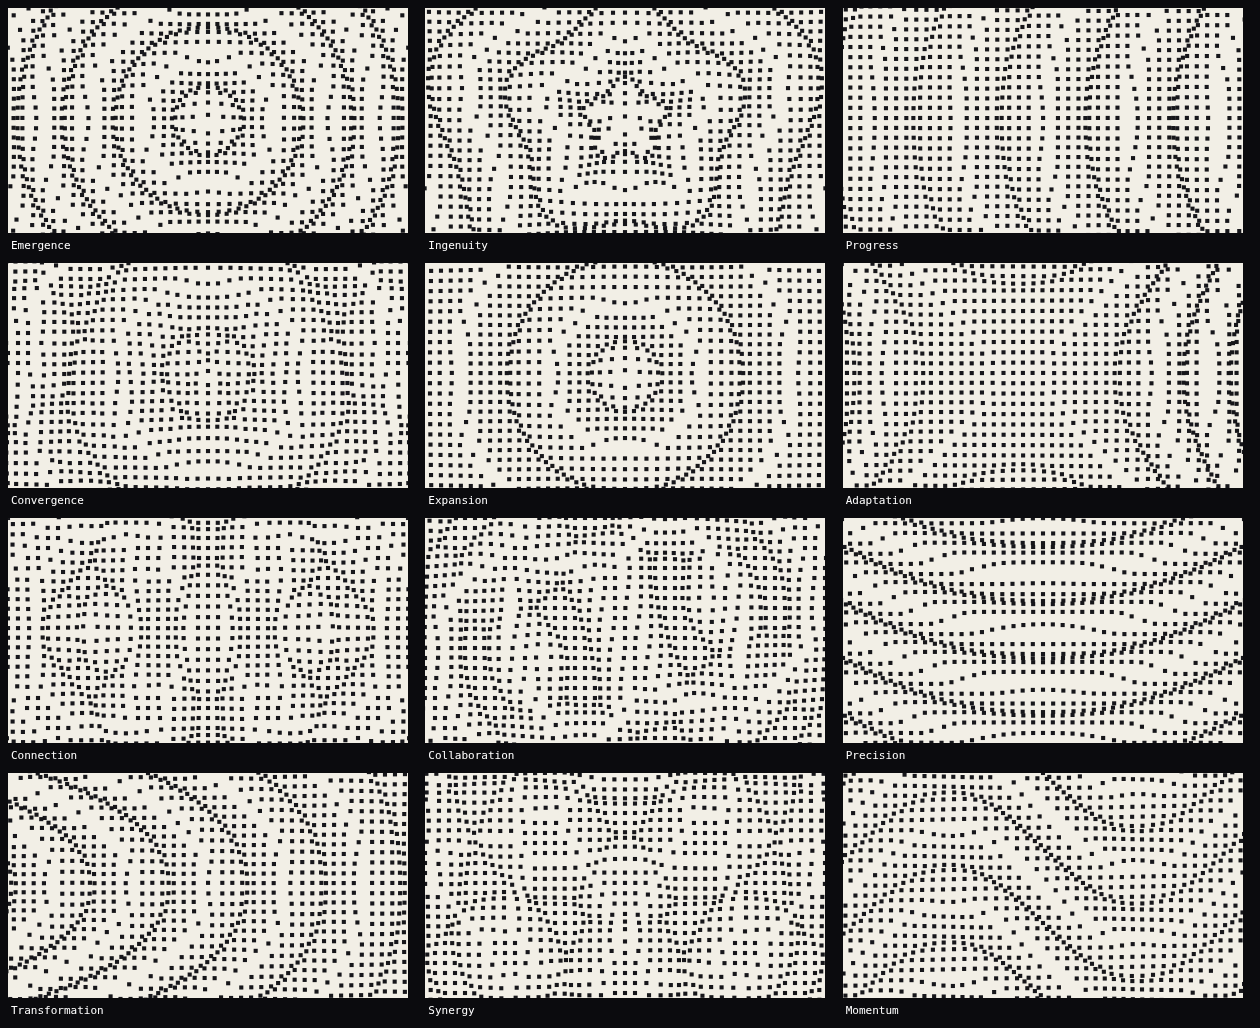
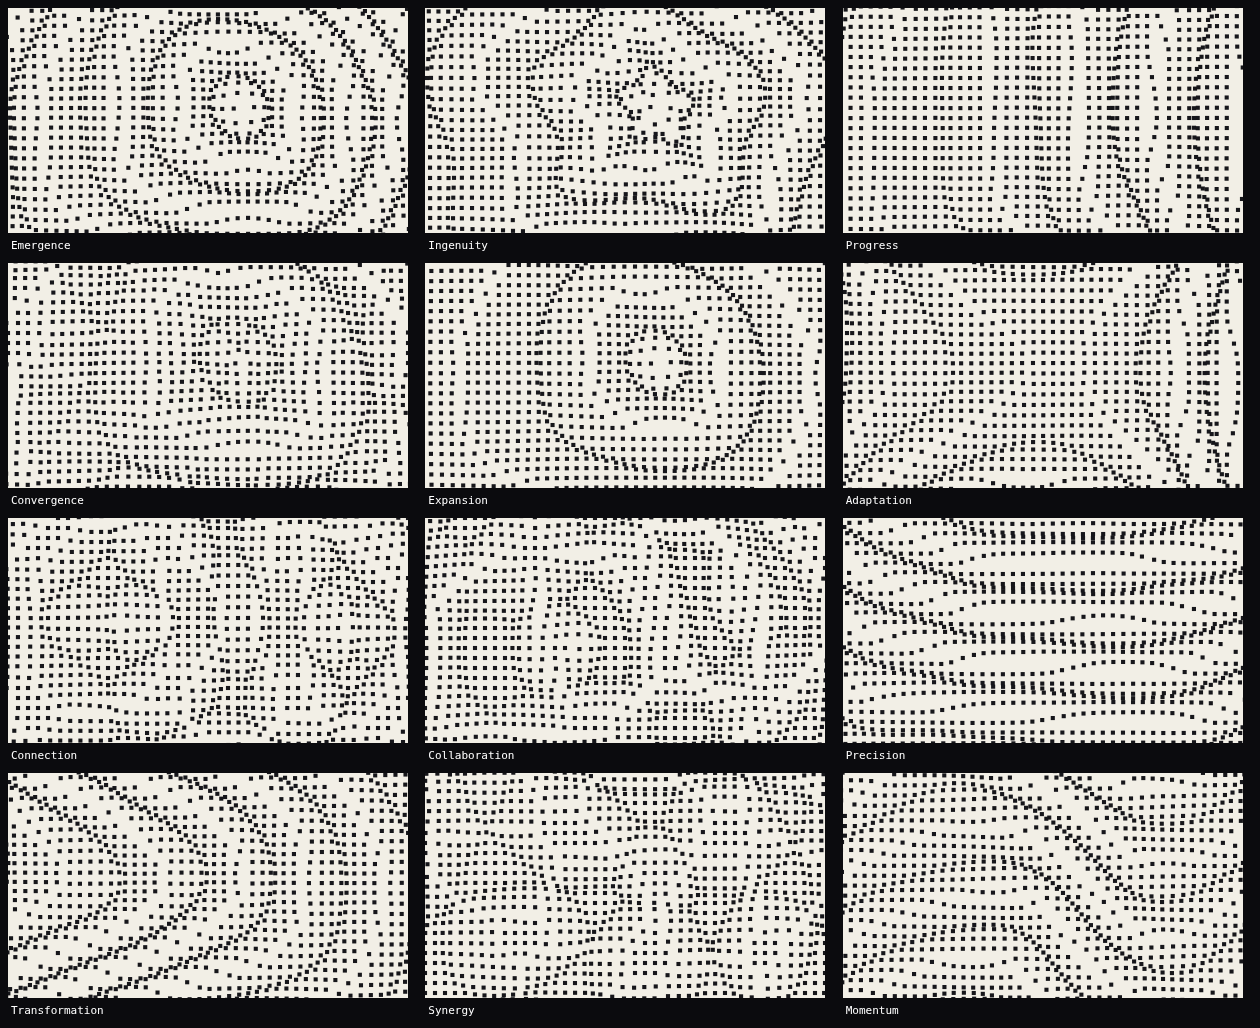
Bend the waves out of their symmetry
Every preset was exactly mirror-symmetric, which read as mechanical. Adds an
Organic control: before the wave is read, the reading point is pushed around by
smooth two-octave value noise — a domain warp — at a low frequency, so rings go
lopsided and bands meander while the wave keeps its character.

The warp sits in the shared height lookup, so both depth modes get it and, in
spacing mode, the marks gather along the bent crests rather than the ideal ones.
It is seeded: Shuffle draws a different bend, the same seed always redraws the
same one, and at 0 the presets are exactly symmetric again.

Shuffle moves next to Organic, since the seed now drives the bend rather than
only the scatter dropout.

Verified: mirrored pairs across the centre line differ by 3.3px of radius on
average at the default and 0.000px at organic 0, shuffling changes the rendered
texture, and generation stays under 20ms at 2000px.

Changed region(s): [[0.0, 0.0, 0.9905, 0.9961]]

diff --git a/js/generate.js b/js/generate.js
@@ -35,6 +35,7 @@ var DG = window.DG || (window.DG = {});
     shape: 'circle',      // circle | square
     grid: 56,             // dots across the width
     spacingRange: 0.55,   // spacing mode: how hard the wave gathers the marks
+    organic: 0.4,         // bends the waves out of perfect symmetry
     dotScale: 0.82,       // largest dot, as a fraction of the gap between dots
     sizeVariation: 0.9,   // difference between the smallest and largest dot
     contrast: 1,          // gamma on the field before it becomes size
@@ -50,6 +51,27 @@ var DG = window.DG || (window.DG = {});
     imageBlend: 'replace', // replace | multiply
     imageInvert: false
   };
+
+  /* Smooth 2D value noise, for bending the waves out of perfect symmetry. */
+  function noise2(x, y, seed) {
+    var x0 = Math.floor(x);
+    var y0 = Math.floor(y);
+    var fx = x - x0;
+    var fy = y - y0;
+    var sx = fx * fx * (3 - 2 * fx);
+    var sy = fy * fy * (3 - 2 * fy);
+    var a = hash2(x0, y0, seed);
+    var b = hash2(x0 + 1, y0, seed);
+    var c = hash2(x0, y0 + 1, seed);
+    var d = hash2(x0 + 1, y0 + 1, seed);
+    var top = a + (b - a) * sx;
+    return top + (c + (d - c) * sx - top) * sy;
+  }
+
+  /* Two octaves, centred on zero. */
+  function fbm(x, y, seed) {
+    return (noise2(x, y, seed) - 0.5) + (noise2(x * 2.1, y * 2.1, seed + 77) - 0.5) * 0.5;
+  }
 
   /* Deterministic per-dot noise, so a given seed always redraws identically. */
   function hash2(i, j, seed) {
@@ -170,11 +192,26 @@ var DG = window.DG || (window.DG = {});
     var ramp = DG.buildRamp();
     var useGradient = p.colorMode === 'gradient';
 
+    var warp = 1.35 * Math.max(0, p.organic);
+    var NOISE_F = 0.55;   // large-scale meander, not fine grain
+
     /* The wave under a frame pixel, with the image folded in if there is one. */
     function heightAt(x, y) {
       var dx = x - cx;
       var dy = y - cy;
-      var value = preset.density((dx * cos + dy * sin) / half, (-dx * sin + dy * cos) / half);
+      var fx = (dx * cos + dy * sin) / half;
+      var fy = (-dx * sin + dy * cos) / half;
+
+      // Domain warp: push the reading point around with smooth noise, so the
+      // wave bends organically instead of holding its exact symmetry.
+      if (warp > 0) {
+        var nx = fx * NOISE_F;
+        var ny = fy * NOISE_F;
+        fx += warp * fbm(nx, ny, p.seed);
+        fy += warp * fbm(nx + 5.2, ny + 1.3, p.seed + 913);
+      }
+
+      var value = preset.density(fx, fy);
       if (sampler) {
         var img = sampler(x / width, y / height);
         if (p.imageInvert) img = 1 - img;

diff --git a/js/app.js b/js/app.js
@@ -151,12 +151,8 @@ var DG = window.DG || (window.DG = {});
               <${DG.Slider} label="Contrast" value=${params.contrast} min=${0.3} max=${3}
                 onChange=${function (v) { set({ contrast: v }); }} />
               ${params.depth === 'size' && html`
-                <div class="row">
-                  <${DG.Slider} label="Scatter" value=${params.scatter} min=${0} max=${1}
-                    onChange=${function (v) { set({ scatter: v }); }} />
-                  <button type="button" class="ghost"
-                    onClick=${function () { set({ seed: 1 + Math.floor(Math.random() * 999) }); }}>Shuffle</button>
-                </div>`}
+                <${DG.Slider} label="Scatter" value=${params.scatter} min=${0} max=${1}
+                  onChange=${function (v) { set({ scatter: v }); }} />`}
               <p class="hint">
                 ${params.depth === 'spacing'
                   ? 'Every mark is the same size. Gathering is how far the wave pulls them onto its crests, so the packing carries the tone.'
@@ -168,6 +164,16 @@ var DG = window.DG || (window.DG = {});
               <h2>Wave</h2>
               <${DG.Slider} label="Wave scale" value=${params.waveScale} min=${0.2} max=${3}
                 onChange=${function (v) { set({ waveScale: v }); }} />
+              <div class="row">
+                <${DG.Slider} label="Organic" value=${params.organic} min=${0} max=${1}
+                  onChange=${function (v) { set({ organic: v }); }} />
+                <button type="button" class="ghost"
+                  onClick=${function () { set({ seed: 1 + Math.floor(Math.random() * 999) }); }}>Shuffle</button>
+              </div>
+              <p class="hint">
+                Organic bends the wave out of its exact symmetry — rings go
+                lopsided, bands meander. Shuffle draws a different bend.
+              </p>
               <${DG.AngleDial} value=${params.angle} onChange=${function (v) { set({ angle: v }); }} />
               <span class="ctrl-label">Frame</span>
               <div class="chips">

diff --git a/README.md b/README.md
@@ -69,8 +69,9 @@ crests. In size mode, **size variation** is how much bigger a crest mark is than
 a trough one, and **scatter** randomly drops marks out of the troughs. Either
 way, keep several marks to a band or the grid beats against the wave.
 
-**Wave** — wave scale (how big the bands are), angle, and the frame shape:
-16:9, 1:1, 4:5 or 9:16.
+**Wave** — wave scale (how big the bands are), **organic** (how far the wave is
+bent out of its symmetry) with Shuffle for a different bend, angle, and the
+frame shape: 16:9, 1:1, 4:5 or 9:16.
 
 **Colour** — solid dots in `#de2027`, `#687099`, `#c5eef9`, white or black, or
 the three-stop gradient `#de2027 → #687099 → #c5eef9`, mapped to dot size,
